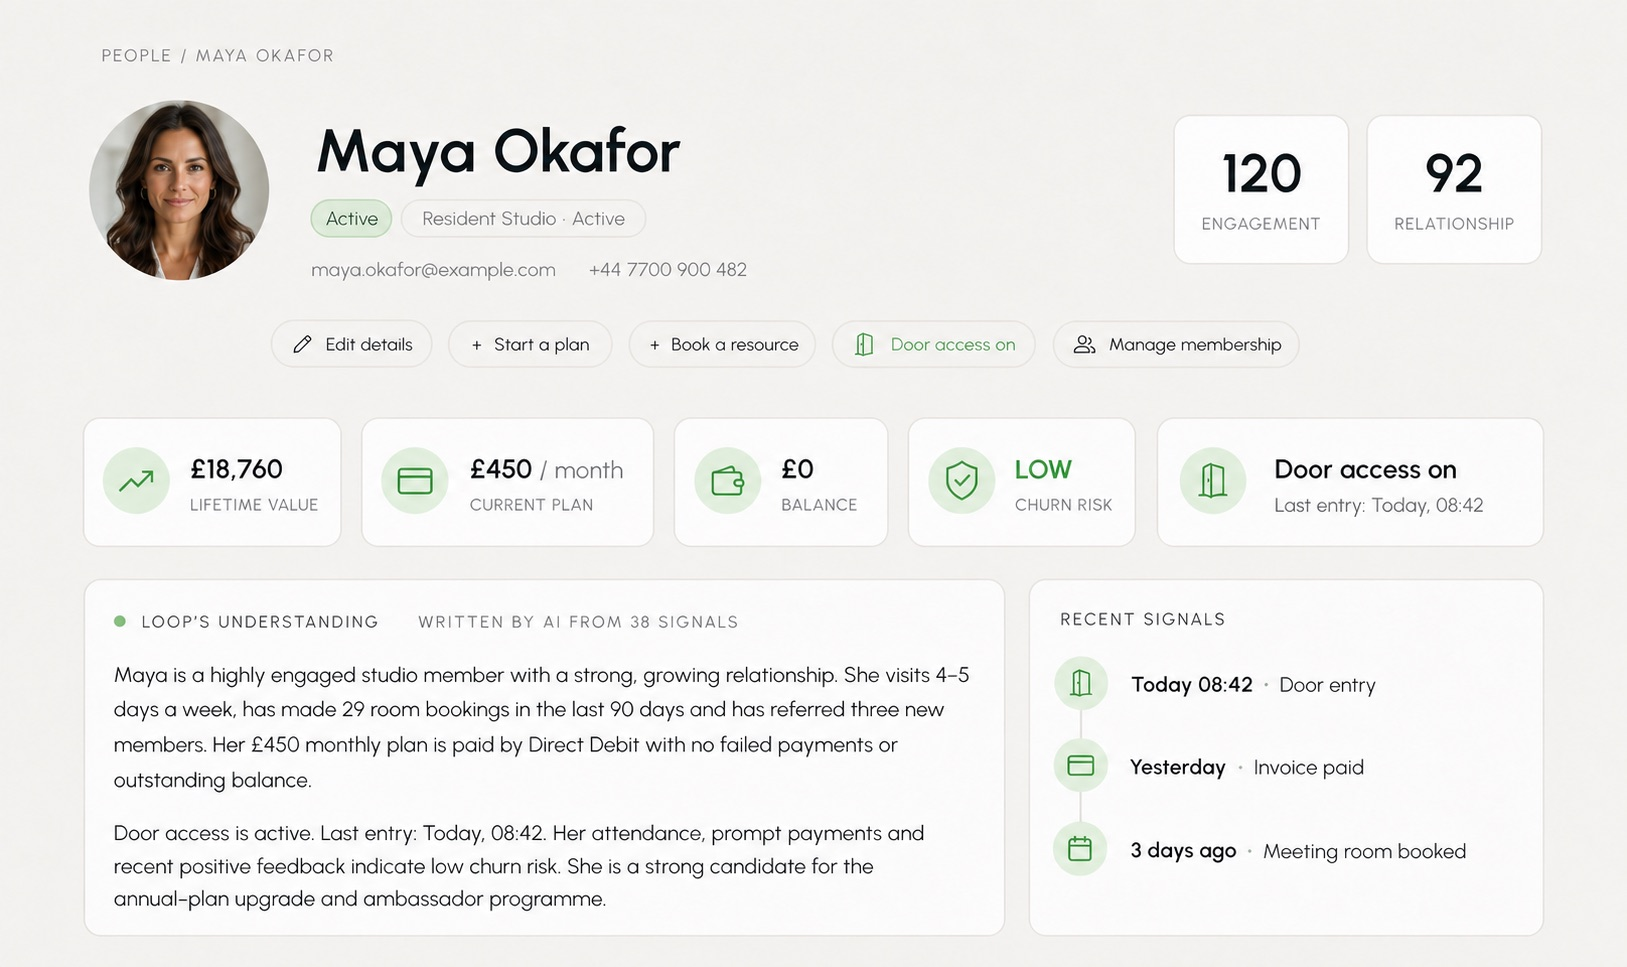
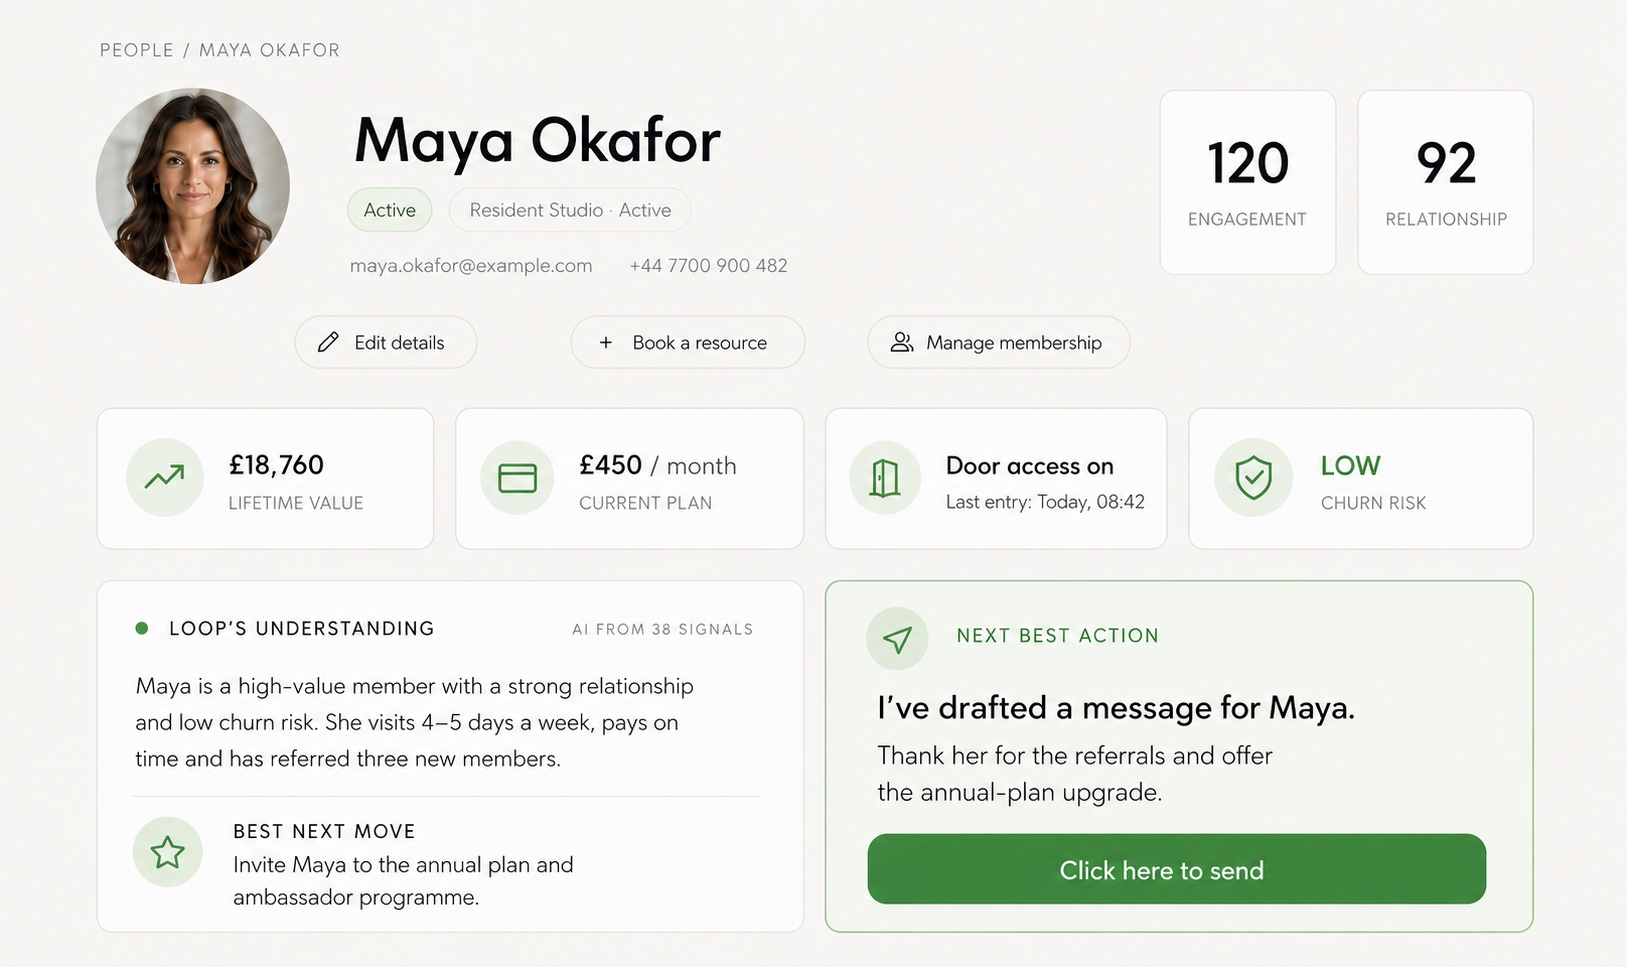
Link Impact Brixton and Brixton Culture Capital; 400-strong community; updated Maya shot
- Personal aside links both businesses; Impact Brixton framed as a
  virtual office and entrepreneurship community of 400 people
- Offer line: Impact Brixton, home to a 400-strong community
- Updated Loop screenshot: shows the drafted-message next-best-action
- AI prompt facts updated

diff --git a/api/ask.js b/api/ask.js
@@ -9,7 +9,7 @@ const SYSTEM_PROMPT = `You draft the first reply to messages submitted through t
 
 Voice rules, never break them: first person singular. Honest. Short sentences. Em-dashes are fine. Concrete over abstract. Zero hype. No exclamation marks. Say "I work with", never "we help".
 
-The only facts about Gerald you may use: he helps businesses think AI-native about what they build, what customers need, how they take products to market and where growth comes from. GVDP is the umbrella company for everything he builds. His background combines entrepreneurship teaching and go-to-market work with computer science, Rackspace, Google Cloud and machine learning experience; he ran shoDeck (previously BuyerDeck), an award-winning venture startup, for 13 years. Work you may reference when genuinely relevant: Brixton Brewery (part of Heineken), Levy Real Estate, Lambeth Council-funded programmes, Brixton BID, a partnership with Stripe, rebuilding his own sites (saving roughly £15k and roughly 5x-ing traffic), Brixton Culture Capital — an AI-native newsletter with 20,000 readers that writes itself every week, is reviewed by three AI editors, and is read and approved by a human before it goes out (thebcclist.com), a community rum he launched with AI's help (brixtonculture.com), CompanyBoard — an agentic tool that watches Companies House and HMRC for UK companies (companyboard.org), Impact Brixton — his AI-native coworking space (impactbrixton.com), and Loop — an AI-native CRM for subscription and repeat-customer businesses, built from the ground up with Claude and other AI models at its heart alongside the four businesses that have run on it for the last four months. Gerald's definition of AI-native software: it doesn't tell you what to do, it does the work and you approve — Loop drafts the follow-ups and the operator approves them one at a time. Loop replaced the 12 software tools he used to pay for and starts from free; Gerald grants access personally via this form.
+The only facts about Gerald you may use: he helps businesses think AI-native about what they build, what customers need, how they take products to market and where growth comes from. GVDP is the umbrella company for everything he builds. His background combines entrepreneurship teaching and go-to-market work with computer science, Rackspace, Google Cloud and machine learning experience; he ran shoDeck (previously BuyerDeck), an award-winning venture startup, for 13 years. Work you may reference when genuinely relevant: Brixton Brewery (part of Heineken), Levy Real Estate, Lambeth Council-funded programmes, Brixton BID, a partnership with Stripe, rebuilding his own sites (saving roughly £15k and roughly 5x-ing traffic), Brixton Culture Capital — an AI-native newsletter with 20,000 readers that writes itself every week, is reviewed by three AI editors, and is read and approved by a human before it goes out (thebcclist.com), a community rum he launched with AI's help (brixtonculture.com), CompanyBoard — an agentic tool that watches Companies House and HMRC for UK companies (companyboard.org), Impact Brixton — his coworking space, virtual office and 400-strong entrepreneurship community in Brixton's Market Row (impactbrixton.com), and Loop — an AI-native CRM for subscription and repeat-customer businesses, built from the ground up with Claude and other AI models at its heart alongside the four businesses that have run on it for the last four months. Gerald's definition of AI-native software: it doesn't tell you what to do, it does the work and you approve — Loop drafts the follow-ups and the operator approves them one at a time. Loop replaced the 12 software tools he used to pay for and starts from free; Gerald grants access personally via this form.
 
 Hard rules: never invent clients, results, numbers or quotes. No pricing beyond "Loop starts from free". No promised outcomes or timelines. No legal, financial or medical advice. If the question needs context you don't have, say plainly what you'd want to know. Give one genuinely useful thought and, where it fits, one concrete next step. 100 to 180 words, in short paragraphs. Close by noting that Gerald will reply personally to their email.
 

diff --git a/index.html b/index.html
@@ -563,7 +563,7 @@
           <p>The point is not to add AI at the end. It is to connect what AI makes possible with what your customers need and how your business grows.</p>
           <p>I’ve spent 15 years making that join. Computer science, then cloud at Rackspace — where I helped build the partnership with Google and took GCP and machine learning to market. Thirteen years running BuyerDeck, my own software company. Go-to-market taught to more than 1,000 companies — in incubators, accelerators and universities, inside scaling tech firms, and for venture funds who brought me in to teach their portfolio companies.</p>
           <p class="build-line"><strong>I still build every week.</strong></p>
-          <p class="personal-aside">Away from the main work, I own a coworking space and a distillery in Brixton. I’m a hobbyist distiller too. We brought the area together to make the first Brixton Culture Capital rum.</p>
+          <p class="personal-aside">Away from the main work, I run <a href="https://impactbrixton.com" target="_blank" rel="noopener">Impact Brixton</a> — a virtual office and entrepreneurship community of 400 people — and a distillery in Brixton. I’m a hobbyist distiller too. We brought the area together to make the first <a href="https://brixtonculture.com" target="_blank" rel="noopener">Brixton Culture Capital</a> rum.</p>
           <a class="quiet-link" href="https://www.geraldvdp.com">I write about AI, entrepreneurship and tech — without the hype →</a>
         </div>
       </section>
@@ -695,7 +695,7 @@
         <dl class="offering-list">
           <div class="offering">
             <dt>Live, in London.</dt>
-            <dd>At <a href="https://impactbrixton.com" target="_blank" rel="noopener">Impact Brixton</a>, my coworking space in Market Row — built around your real work and real questions. <a class="offer-cta" data-topic="workshop" href="#question">Book a session →</a></dd>
+            <dd>At <a href="https://impactbrixton.com" target="_blank" rel="noopener">Impact Brixton</a> in Market Row — my coworking space, home to an entrepreneurship community 400 strong — built around your real work and real questions. <a class="offer-cta" data-topic="workshop" href="#question">Book a session →</a></dd>
           </div>
           <div class="offering">
             <dt>Streamed anywhere.</dt>
